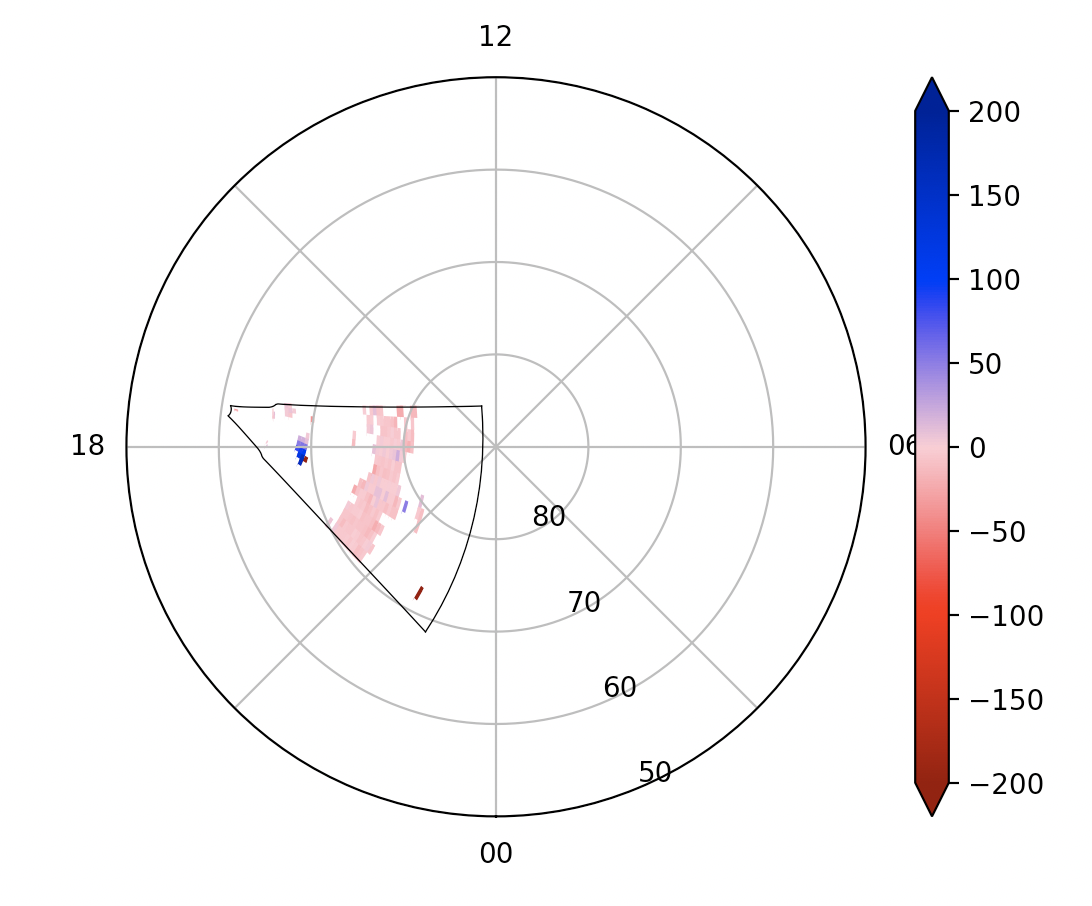
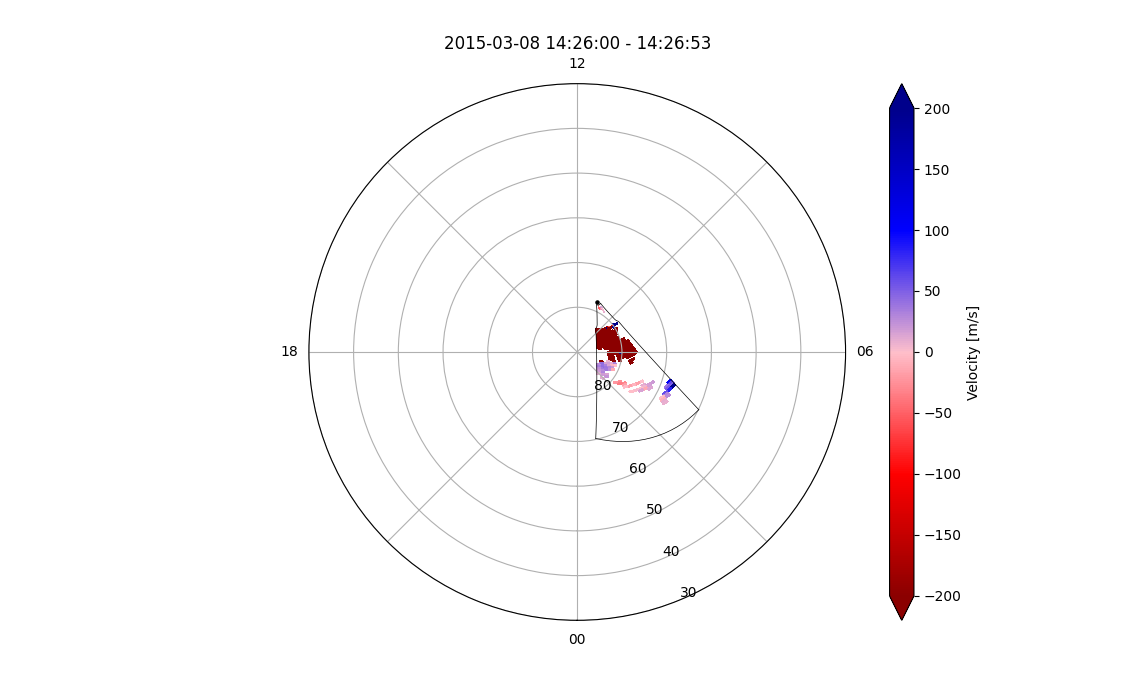
updating fan docs but found a bug

diff --git a/pydarn/utils/conversions.py b/pydarn/utils/conversions.py
@@ -90,7 +90,7 @@ def gate2GroundScatter(slant_ranges: List[float],
                        reflection_height: float = 250):
     """
     Calculate the ground scatter mapped range (km) for each slanted range
-    for SuperDARN data . This function is based on the Ground Scatter equation
+    for SuperDARN data. This function is based on the Ground Scatter equation
     from Bristow paper at https://doi.org/10.1029/93JA01470 on page 325
     Parameters
     ----------

diff --git a/pydarn/utils/coordinates.py b/pydarn/utils/coordinates.py
@@ -29,6 +29,8 @@ class Coords(enum.Enum):
         RANGE_GATE: range gates
         SLANT_RANGE: slant range (km)
         GROUND_SCATTER_MAPPED_RANGE: ground scatter mapped range (km)
+        GEOGRAPHIC: geographical coordinates lat and longitude (degree)
+        AACGM: Magnetic geographical coordinates lat and longitude (degree)
     """
 
     RANGE_GATE = enum.auto()

diff --git a/docs/user/fan.md b/docs/user/fan.md
@@ -35,14 +35,25 @@ SDarn_read = pydarn.SuperDARNRead(file)
 fitacf_data = SDarn_read.read_fitacf()
 
 ```
-With the FITACF data loaded as a list of dictionaries (`fitacf_data` variable in above example), you may now call the `plot_fan` method. Make sure you tell it which scan (numbered from first recorded scan in file, counting from 1) you want using `scan_index`:
+With the FITACF data loaded as a list of dictionaries (`fitacf_data` variable in above example), you may now call the `plot_fan` method. Make sure you tell it which scan (numbered from first recorded scan in file, counting from 1 or give it a `datetime` object for the scan a that time) you want using `scan_index`:
 ```python
-fanplot = pydarn.Fan.plot_fan(fitacf_data, scan_index=27)
+fanplot = pydarn.Fan.plot_fan(fitacf_data, scan_index=27, 
+                              colorbar_label='Velocity [m/s]')
 plt.show()
-
 ```
 In this example, the 27th scan was plotted with the defaulted parameter being line-of-sight velocity:
 ![](../imgs/fan_1.png)
+
+You can also provide a `datetime` object to obtain a scan at a specific time: 
+```python
+pydarn.Fan.plot_fan(cly_data, scan_index=datetime(2015, 3, 8, 15, 26),
+                     colorbar_label='Velocity [m/s]')
+```
+
+![](../imgs/fan_1.b.png)
+
+!!! Warning
+    Do not include seconds, typically scans are 1 minute long so seconds may end in a error with no data. 
 
 Default plots also do not show groundscatter as grey. Set it to true to colour groundscatter this way:
 ```python
@@ -76,18 +87,27 @@ In addition to line-of-sight velocity, you can choose one of three other data pr
 
 Here is a list of all the current options than can be used with `plot_fan`
 
-| Option                  | Action                                                                                              |
-|-------------------------|-----------------------------------------------------------------------------------------------------|
-| scan_index=(int)        | Scan number, from start of records in file                                                          |
-| lowlat=(int)            | Control the lower latitude boundary of the plot (default 50/-50 AACGM lat)                          |
-| groundscatter=(bool)    | True or false to showing ground scatter as grey                                                     |
-| ranges=(list)           | Two element list giving the lower and upper ranges to plot (default [0,75]                          |
-| cmap=matplotlib.cm      | A matplotlib color map object. Will override the pyDARN defaults for chosen parameter               |
-| zmin=(int)              | Minimum data value for colouring                                                                    |
-| zmax=(int)              | Maximum data value for colouring                                                                    |
-| colorbar=(bool)	  | Set true to plot a colorbar (default: True)								|
-| colorbar_label=(string) | Label for the colour bar (requires colorbar to be true)                                             |
-| boundary=(bool)         | Set false to not show the outline of the radar FOV (default: True)     			        |
+| Option                        | Action                                                                                                  |
+| ----------------------------- | ------------------------------------------------------------------------------------------------------- |
+| scan_index=(int or  datetime) | Scan number or datetime, from start of records in file                                                  |
+| groundscatter=(bool)          | True or false to showing ground scatter as grey                                                         |
+| ranges=(list)                 | Two element list giving the lower and upper ranges to plot, grabs ranges from hardware file (default [] |
+| cmap=matplotlib.cm            | A matplotlib color map object. Will override the pyDARN defaults for chosen parameter                   |
+| zmin=(int)                    | Minimum data value for colouring                                                                        |
+| zmax=(int)                    | Maximum data value for colouring                                                                        |
+| colorbar=(bool)               | Set true to plot a colorbar (default: True)                                                             |
+| colorbar_label=(string)       | Label for the colour bar (requires colorbar to be true)                                                 |
+| boundary=(bool)               | Set false to not show the outline of the radar FOV (default: True)                                      |
+| fov_color=(string)            | Sets the fill in color for the fov plot (default: transparency)                                         |
+| line_color=(string)           | Sets the boundary line and radar location dot color (default: black)                                    |
+| alpha=(int)                   | Sets the transparency of the fill color (default: 0.5)                                                  |
+| radar_location=(bool)         | Places a dot in the plot representing the radar location (default: True)                                |
+| radar_label=(bool)            | Places the radar 3-letter abbreviation next to the radar location                                       |
+| Kwargs **                     | Axis Polar settings. See [polar axis](axis.py)                                                          |
+
+
+
+
 
 As an example, the following code plots two fan plots, from the same radar at two different scans. The first one has been limited to only the first 20 ranges, and the second has no FOV boundary. Make sure you disable the colorbar on subsequent plots, or it will plot two. If you want to try this example for yourself, I used data from Saskatoon on 20200507 all day FITACF 3.0 file:
 ```python
